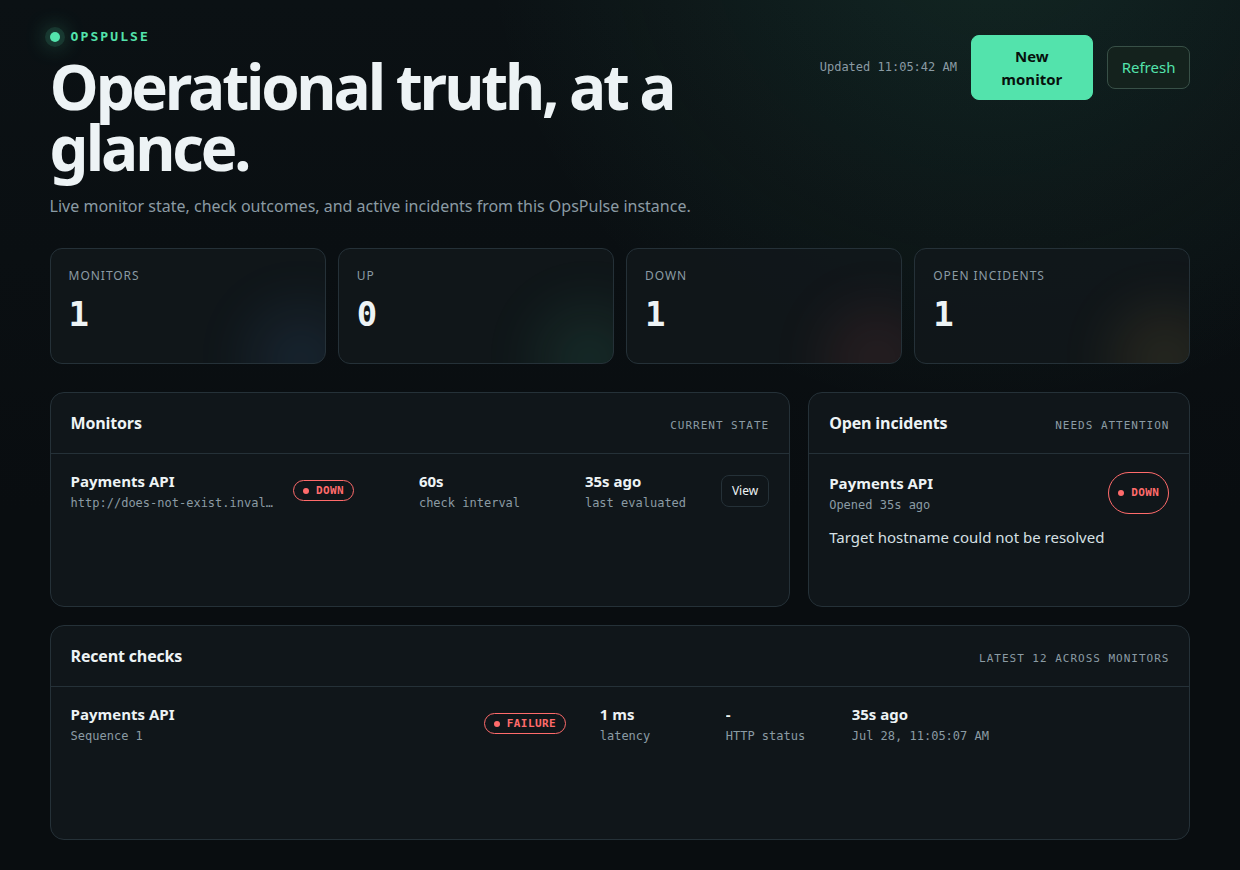
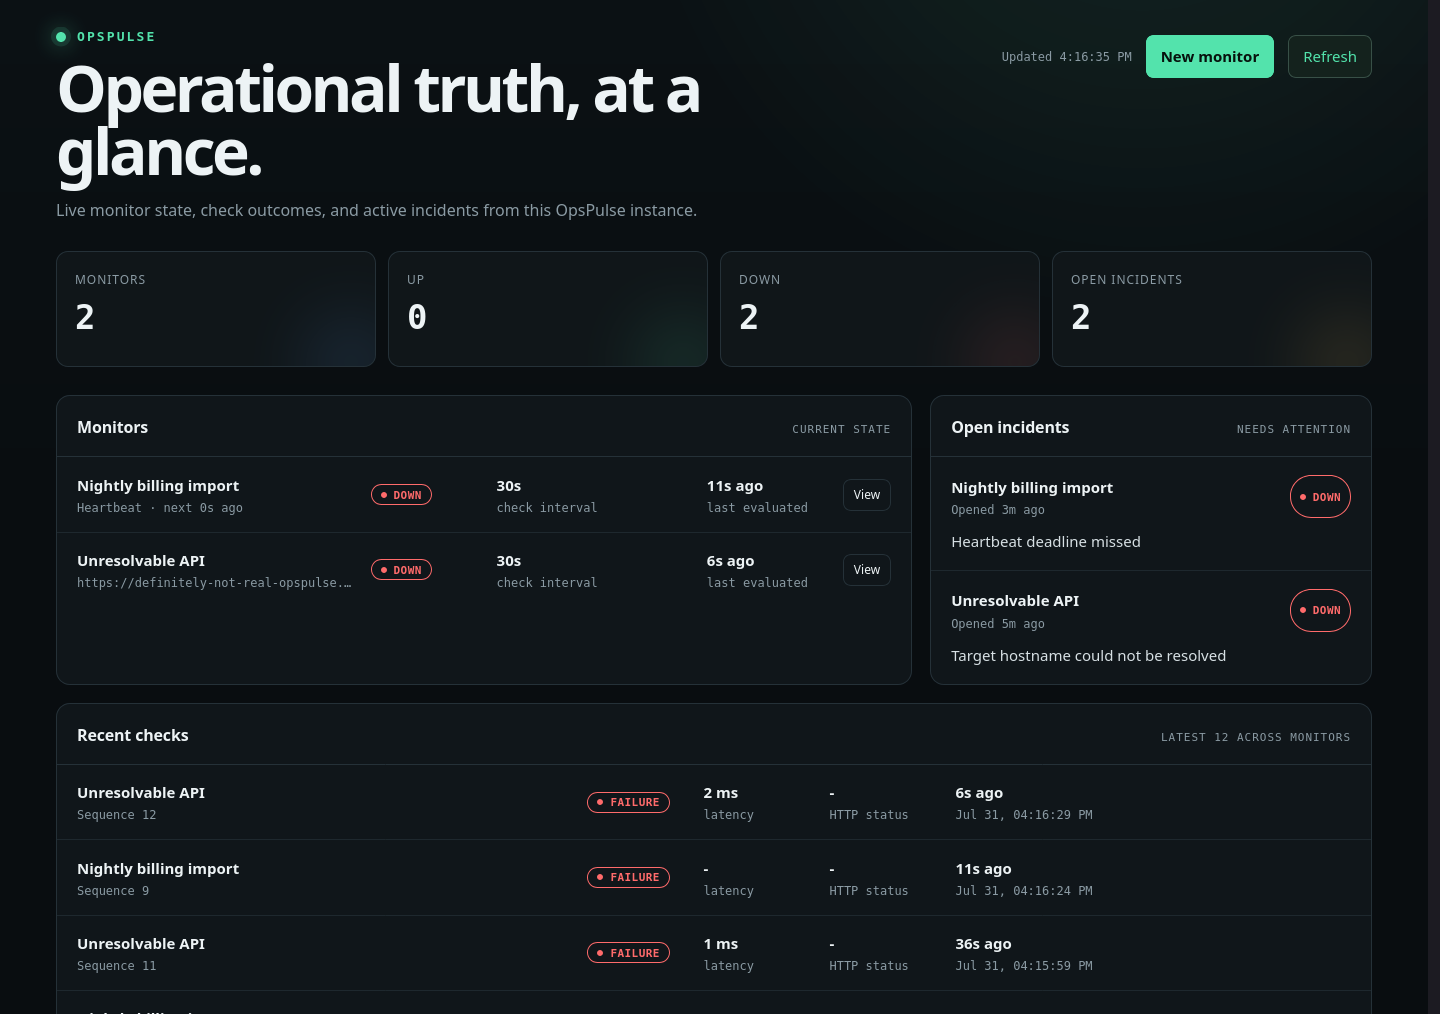
docs: update heartbeat monitoring readme

diff --git a/packages/database/src/monitors.ts b/packages/database/src/monitors.ts
@@ -110,7 +110,7 @@ export async function createHeartbeatMonitor(
       kind, name, published, interval_seconds, failure_threshold, recovery_threshold,
       grace_period_seconds, next_heartbeat_deadline, heartbeat_token_hash,
       heartbeat_token_rotated_at
-    ) VALUES ($1, $2, $3, $4, $5, $6, $7, $8::timestamptz + ($4 + $7) * interval '1 second', $9, $8)
+    ) VALUES ($1, $2, $3, $4, $5, $6, $7, $8::timestamptz + ($4::integer + $7::integer) * interval '1 second', $9, $8)
     RETURNING *`,
     [
       monitor.kind,

diff --git a/README.md b/README.md
@@ -1,15 +1,17 @@
 # OpsPulse
 
-OpsPulse is a self-hosted HTTP monitoring platform that turns scheduled checks into durable incident state operators can inspect and act on.
+OpsPulse is a self-hosted operations monitoring platform that turns HTTP checks and heartbeat pings into durable incident state operators can inspect and act on.
 
 ![OpsPulse operations dashboard](docs/images/dashboard-overview.png)
 
 ## What OpsPulse Does
 
 - Creates and edits HTTP monitors with configurable schedules, timeouts, methods, accepted status ranges, thresholds, and request headers.
-- Runs checks in a separate worker and records latency, HTTP status, and stable failure classifications.
+- Creates heartbeat monitors for cron jobs and background tasks, with one-time ping URL disclosure, hashed token storage, token rotation, and idempotent ping ingestion.
+- Runs checks in a separate worker, records latency or stable failure classifications, and materializes missed heartbeat deadlines.
 - Opens and resolves incidents from configurable consecutive-failure and recovery thresholds.
-- Provides an operations dashboard and cursor-paginated JSON APIs for monitors, checks, and incidents.
+- Queues signed webhook notifications for incident transitions, records delivery attempts, and supports failed-delivery replay.
+- Provides an operations dashboard and cursor-paginated JSON APIs for monitors, checks, incidents, webhook deliveries, and channels.
 - Supports monitor detail, pause, resume, archive, manual refresh, and automatic dashboard refresh.
 
 ## Architecture
@@ -23,15 +25,21 @@ flowchart LR
         M[(monitors)]
         C[(check requests and runs)]
         I[(incidents and events)]
+        N[(notification channels and deliveries)]
     end
 
     A -->|Query and mutate| M
+    A -->|Query and mutate| N
+    A -->|Token-authenticated pings| C
     A -->|Query| C
     A -->|Query| I
     W[Worker] -->|Read monitor config| M
     W -->|Claim and persist checks| C
     W -->|Evaluate incident state| I
+    W -->|Deliver webhooks| N
     W -->|Run HTTP check| T[Monitored service]
+    J[Cron job or task] -->|POST heartbeat URL| A
+    N -->|HTTPS webhook| R[Alert receiver]
 ```
 
 The Compose stack runs PostgreSQL, a one-shot migration service, the Express API with its static dashboard, and one Node.js worker. PostgreSQL is both the system of record and the worker coordination mechanism.
@@ -40,18 +48,22 @@ The Compose stack runs PostgreSQL, a one-shot migration service, the Express API
 
 - **Generation-safe edits:** schedule-affecting changes cancel pending work, increment the monitor generation, and reset sequencing so stale results cannot alter current state.
 - **Monitor-first row locking:** lifecycle changes and check completion lock the monitor before pending check rows, giving concurrent transactions a consistent lock order.
-- **Leases and reclamation:** workers claim checks transactionally with `SKIP LOCKED`; abandoned work becomes reclaimable after `2 * timeoutSeconds + 60s`.
+- **Leases and reclamation:** workers claim checks transactionally with `SKIP LOCKED`; abandoned HTTP work becomes reclaimable after `2 * timeoutSeconds + 60s`.
 - **Contiguous evaluation:** only the active generation's next sequence can advance counters or incident state.
+- **Idempotent heartbeats:** callers can send a stable `Idempotency-Key` so network retries return the same check ID instead of double-counting work.
+- **Token secrecy:** heartbeat tokens are shown only on create or rotation, while the database stores only SHA-256 token hashes.
+- **Deadline reconciliation:** the worker locks heartbeat monitors and records missed deadlines as failure checks before later recovery pings can resolve incidents.
 - **SSRF defenses:** outbound targets are schema-checked, DNS resolution is bounded, non-public IPv4 and IPv6 ranges are rejected, and the request connects to the approved resolved address.
-- **Archived history:** archiving cancels pending work and resolves an open incident while preserving check and incident records for history queries.
+- **Webhook durability:** incident transitions enqueue delivery rows, record attempt outcomes, and retain failed deliveries for inspection and replay.
+- **Archived history:** archiving cancels pending work and resolves an open incident while preserving check, incident, and delivery records for history queries.
 
 ### Monitor configuration
 
-![HTTP monitor configuration](docs/images/monitor-configuration.png)
+![HTTP and heartbeat monitor configuration](docs/images/monitor-configuration.png)
 
-### Check and incident history
+### Check, incident, and delivery history
 
-![Failed check and incident history](docs/images/incident-history.png)
+![Heartbeat and incident history](docs/images/incident-history.png)
 
 ## Quick Start
 
@@ -63,6 +75,18 @@ docker compose up -d --build --wait postgres migrate api worker
 ```
 
 Open [http://127.0.0.1:3000](http://127.0.0.1:3000).
+
+Create a heartbeat monitor through the dashboard or API. The raw token is disclosed only once in the create or rotation response:
+
+```sh
+heartbeat=$(curl -sS -X POST http://127.0.0.1:3000/v1/monitors \
+  -H 'content-type: application/json' \
+  -d '{"kind":"heartbeat","name":"Nightly import","intervalSeconds":60,"gracePeriodSeconds":60}')
+
+ping_path=$(printf '%s' "$heartbeat" | jq -r '.heartbeat.pingPath')
+curl -X POST "http://127.0.0.1:3000${ping_path}" \
+  -H "Idempotency-Key: nightly-import-$(date +%F)"
+```
 
 Stop and remove containers while preserving PostgreSQL data:
 
@@ -86,6 +110,8 @@ docker compose run --rm failure-scenario
 
 It creates an HTTP monitor for a deliberately unresolvable host, waits for the worker to classify `dns/ENOTFOUND`, and prints a compact JSON result with the monitor, check, and incident IDs. Inspect the resulting state in the dashboard.
 
+To exercise webhook delivery visibility locally, create a webhook channel, attach it to a monitor, and let an incident transition occur. Delivery rows are visible in the dashboard and through `GET /v1/deliveries`; failed delivery rows can be replayed with `POST /v1/deliveries/:deliveryId/replay` and an explicit replay key.
+
 ## Verification
 
 The repository is guarded by 500+ automated tests. Run the unit suite alone or the full build, lint, typecheck, and test gate:
@@ -105,4 +131,4 @@ docker compose run --rm -e VERIFY_EXISTING=1 smoke
 
 ## Current Scope
 
-OpsPulse currently implements local HTTP monitoring only. Authentication, heartbeat monitoring, notifications, and public status pages are not implemented. The dashboard and API are unauthenticated, and Compose publishes the API only on host loopback; this repository is intended for local evaluation rather than production deployment. No license has been selected.
+OpsPulse currently implements local HTTP monitoring, heartbeat monitoring, incident history, signed webhook notifications, delivery visibility, and failed-delivery replay. Authentication and public status pages are not implemented. The dashboard and API are unauthenticated, and Compose publishes the API only on host loopback; this repository is intended for local evaluation rather than production deployment. No license has been selected.
